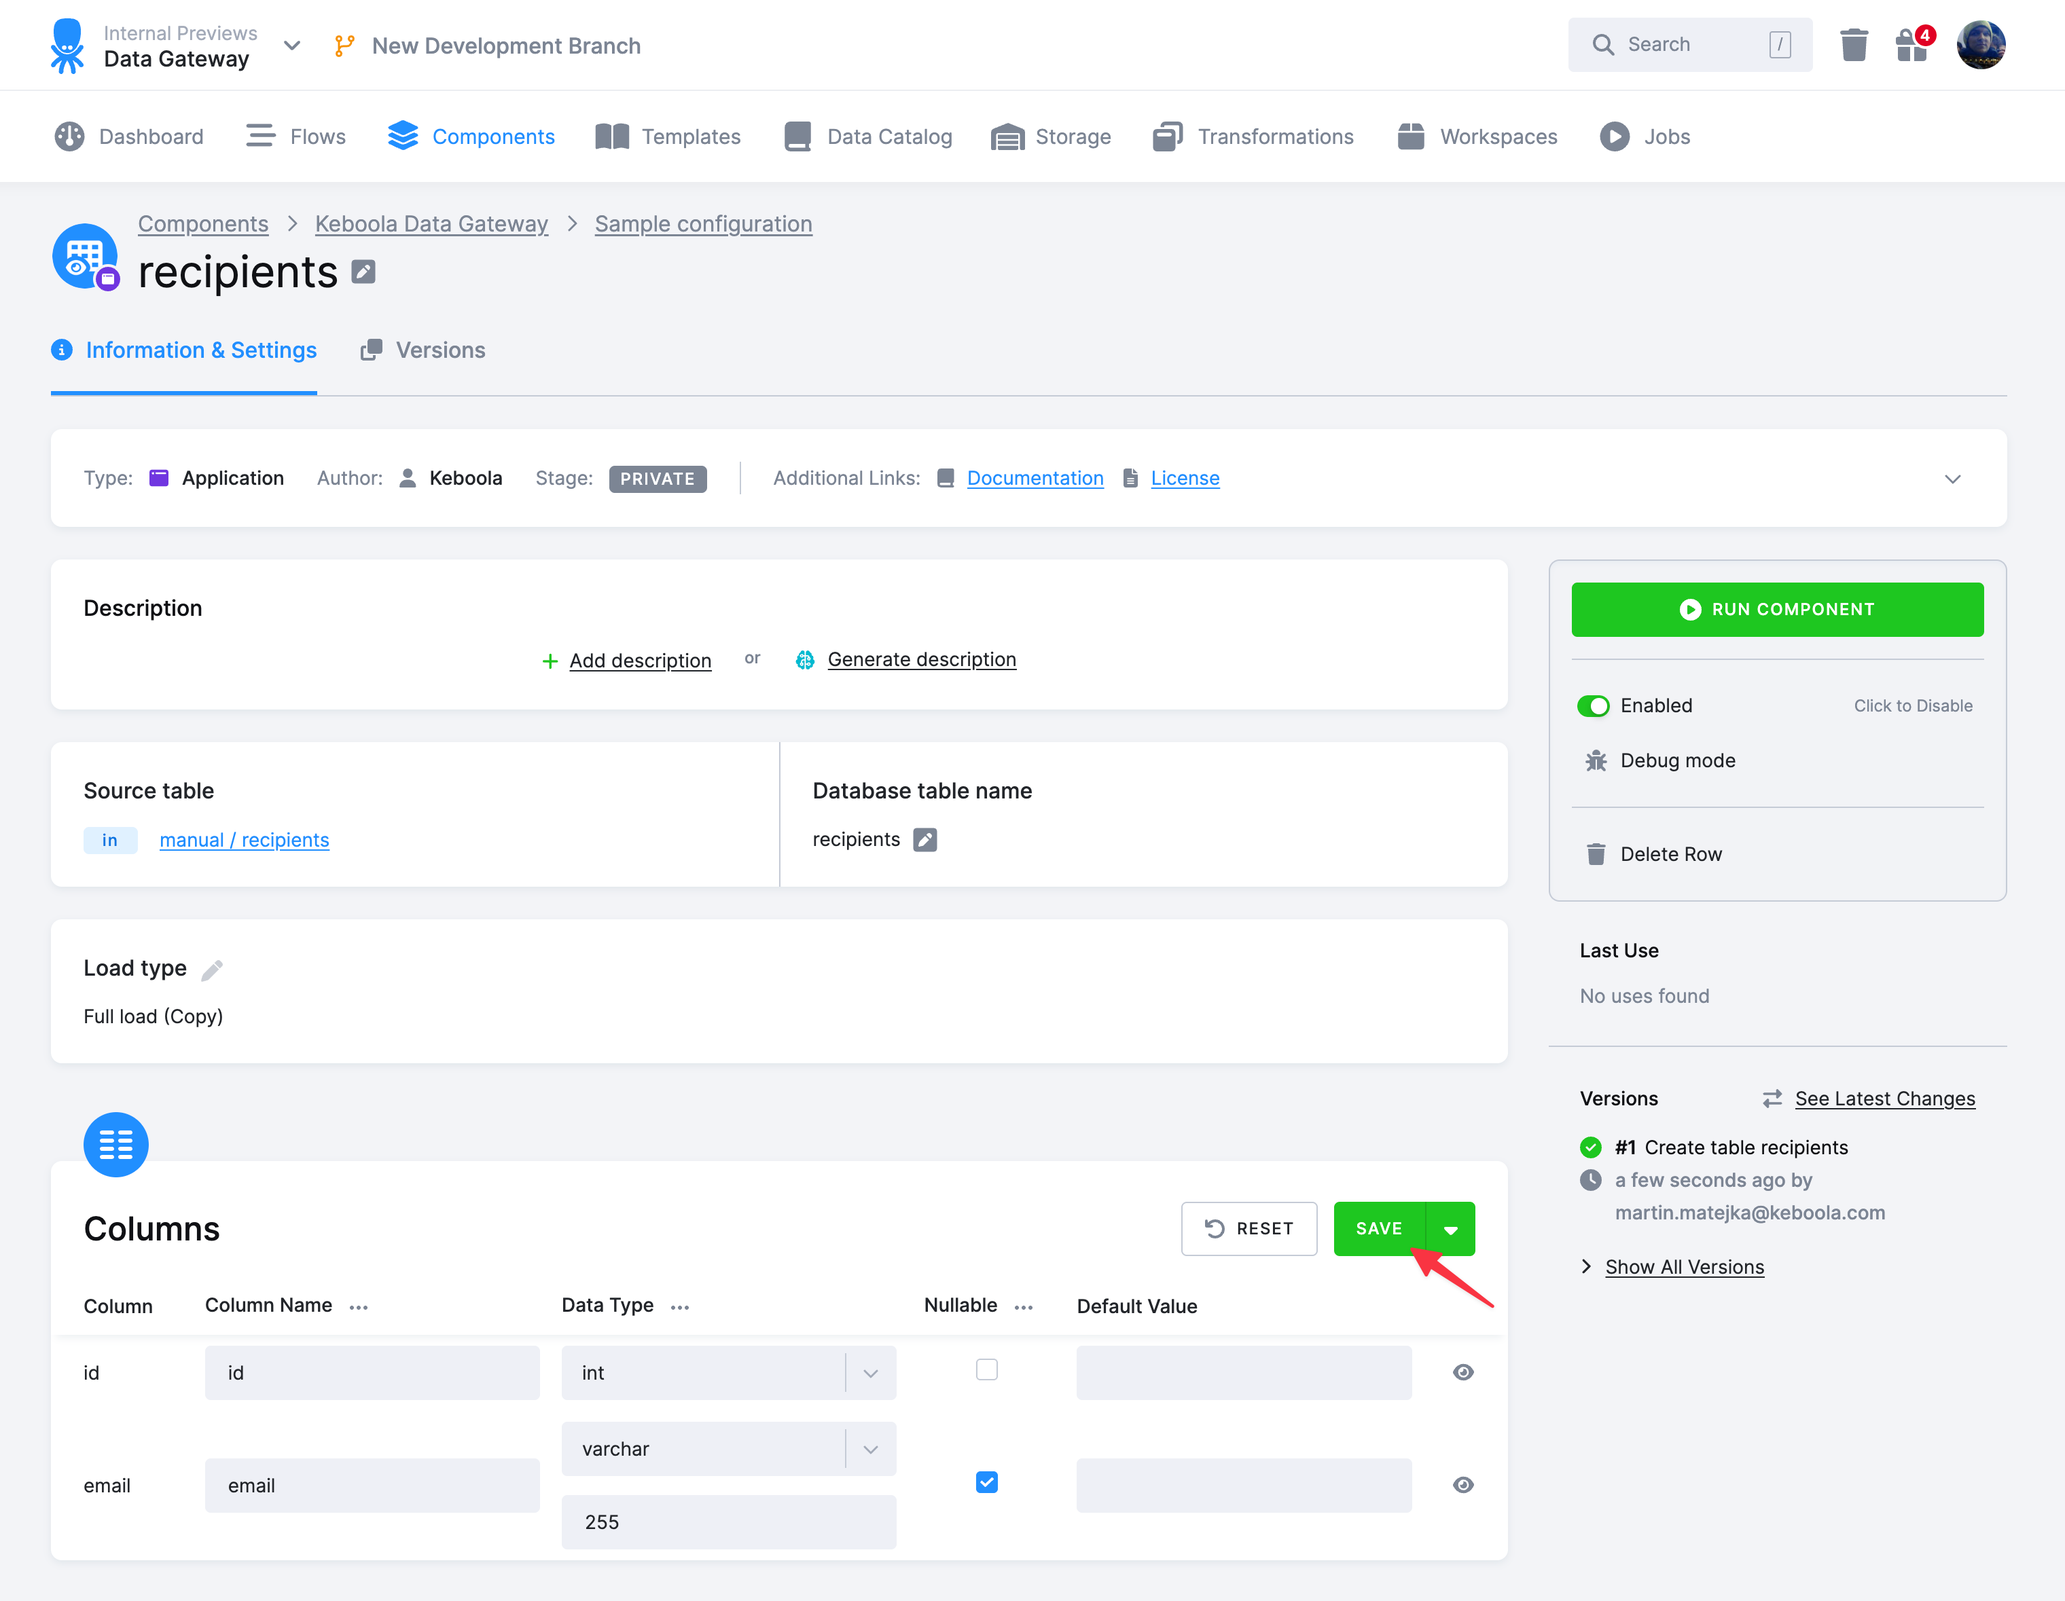
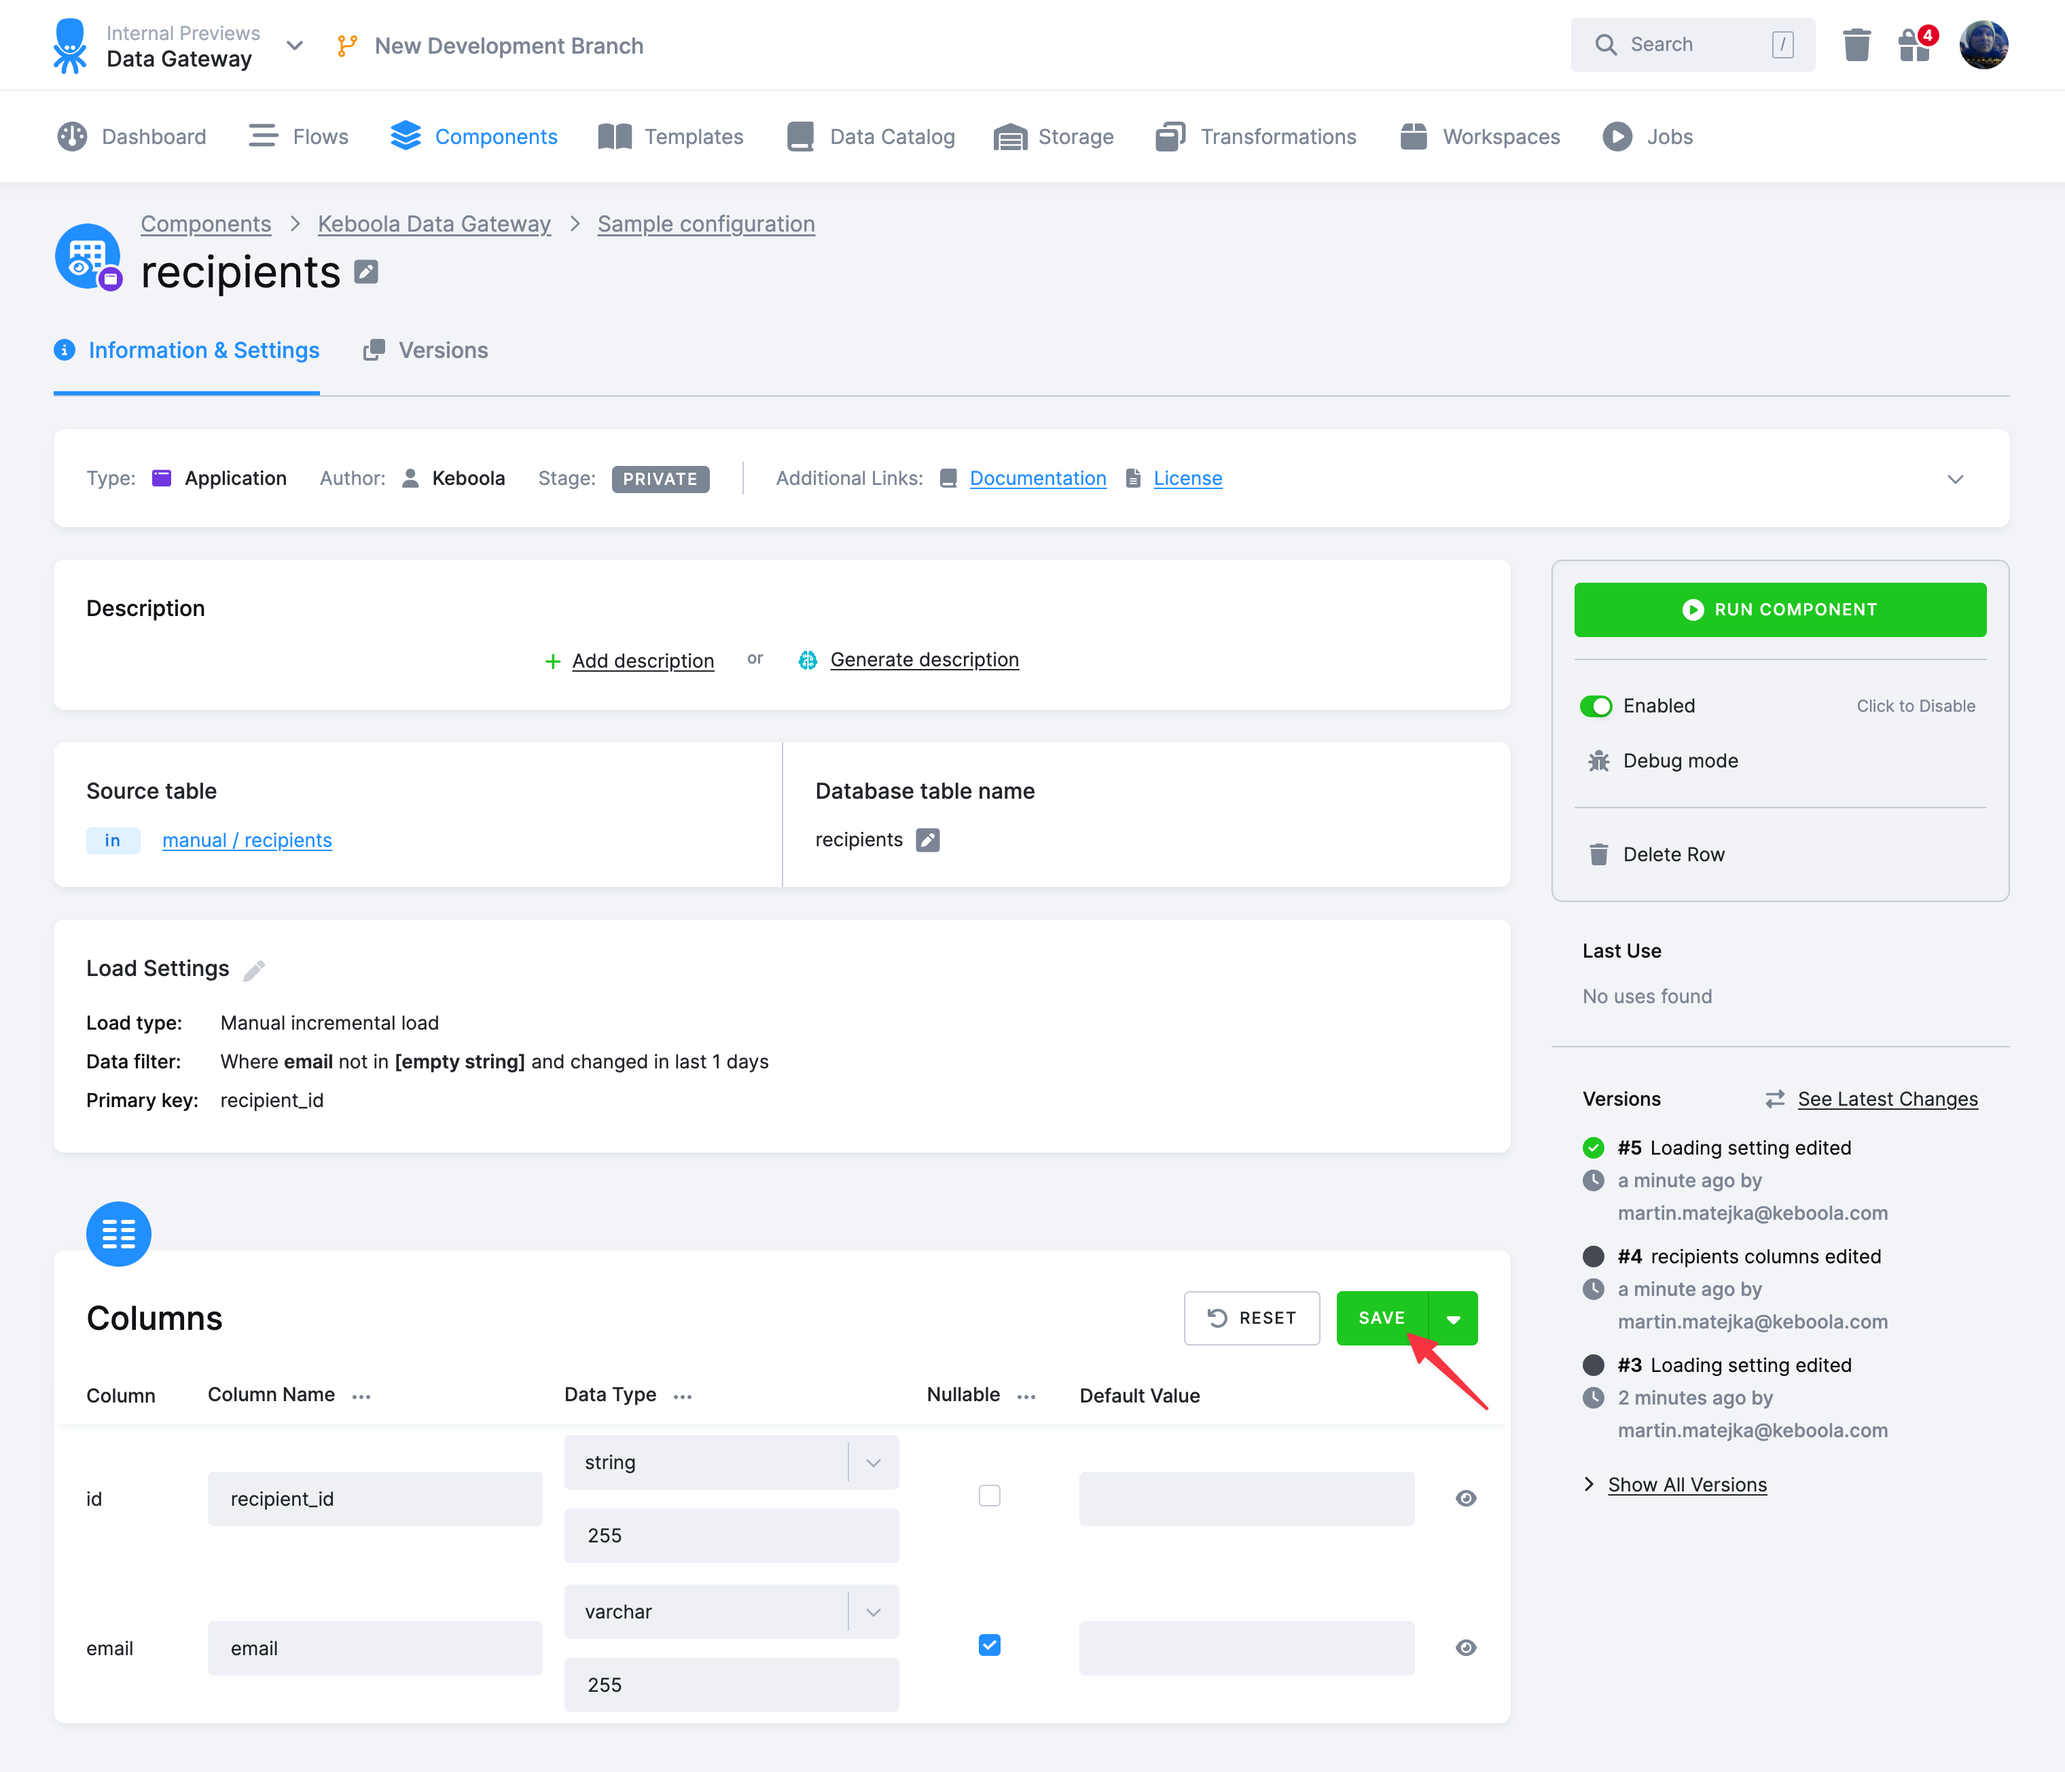
Update docs with new UI changes
Adding new options to Data Gateway components + small wording fixes to match casing in the UI.

diff --git a/components/applications/data-gateway/index.md b/components/applications/data-gateway/index.md
@@ -53,11 +53,13 @@ You'll be redirected to the table detail page. Here you can configure how the ta
 
 - **Database table name** - the name of the table in the Snowflake database.
 - **Load type** - the component supports four load types:
-  - **Full Load (Clone)** - clones the entire table to the read-only workspace (including the data types).
-  - **Full Load (Copy)** - replaces all existing table rows in the read-only workspace (allows changing the data types).
-  - **Incremental Load** - inserts new rows into the table in the read-only workspace. If a primary key is defined on the table, the data are [upserted](https://en.wikipedia.org/wiki/Merge_(SQL)). If no primary key is defined, the data are inserted.
+  - **Full load (Clone)** - clones the entire table to the read-only workspace (including the data types).
+  - **Full load (Copy)** - replaces all existing table rows in the read-only workspace (allows changing the data types).
+  - **Incremental load** - inserts new rows into the table in the read-only workspace. If a primary key is defined on the table, the data are [upserted](https://en.wikipedia.org/wiki/Merge_(SQL)). If no primary key is defined, the data are inserted.
     - **Manual** - the data that has been added or updated in selected time period will be fetched.
     - **Automatic** - the data that has been added or updated since the last run of the component will be fetched.
+- **Data filter** - you can filter the data to be loaded by adding a value filter on a column and/or by selecting only rows updated in a selected time period.
+- **Primary key** - you can specify the primary key of the target table. Primary key is required for the incremental loads for deduplication, otherwise the data will be appended.
 - **Columns** - modifications are **not** available for **Full Load (Clone)** load type.
     - **Column Name** - the name of the column in the Snowflake database.
     - **Data Type** - the data type of the column in the Snowflake database. If [typed table](/storage/tables/data-types/) is selected, you can use only the data type defined in Storage, or set the data type to **IGNORE** to exclude the column from loading.
